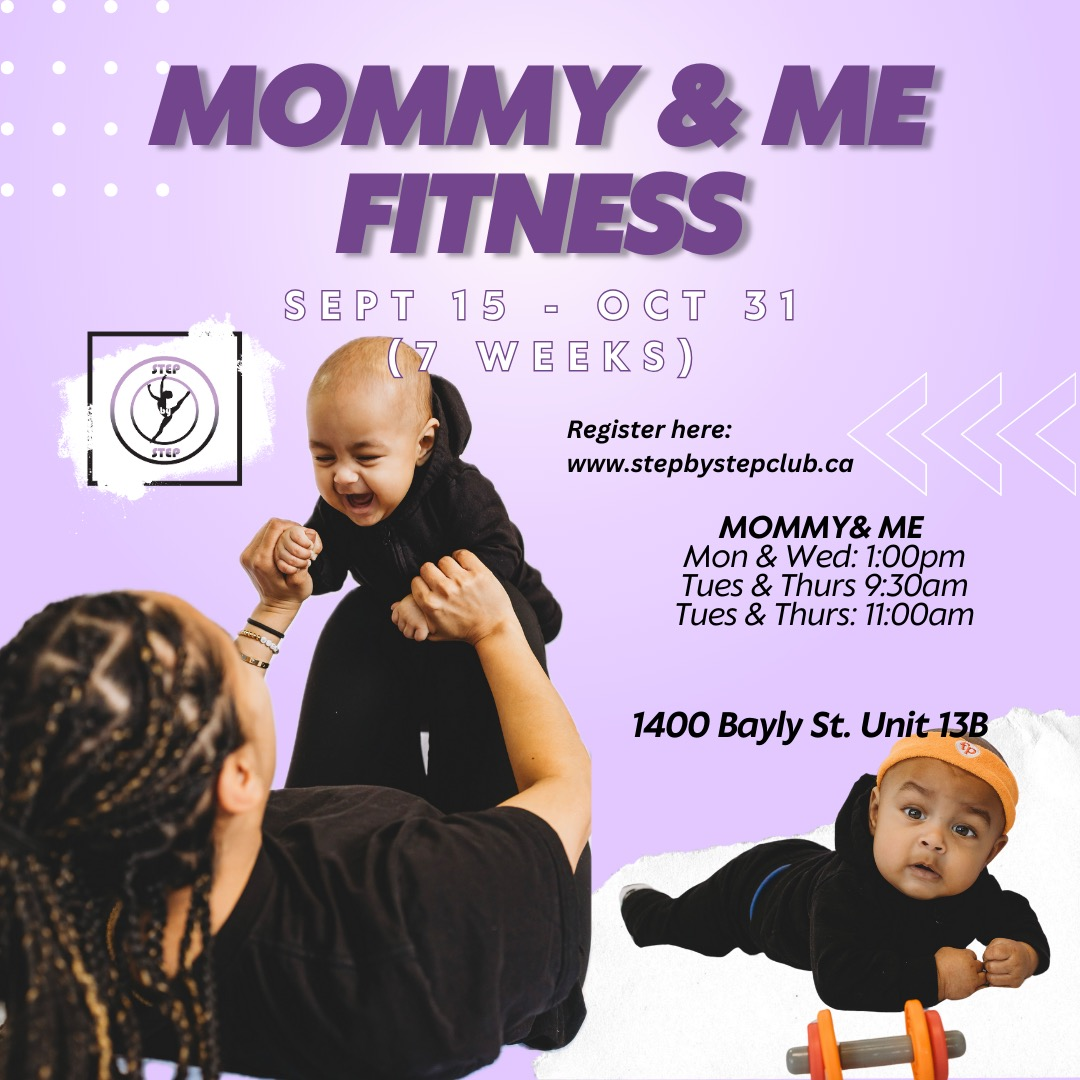
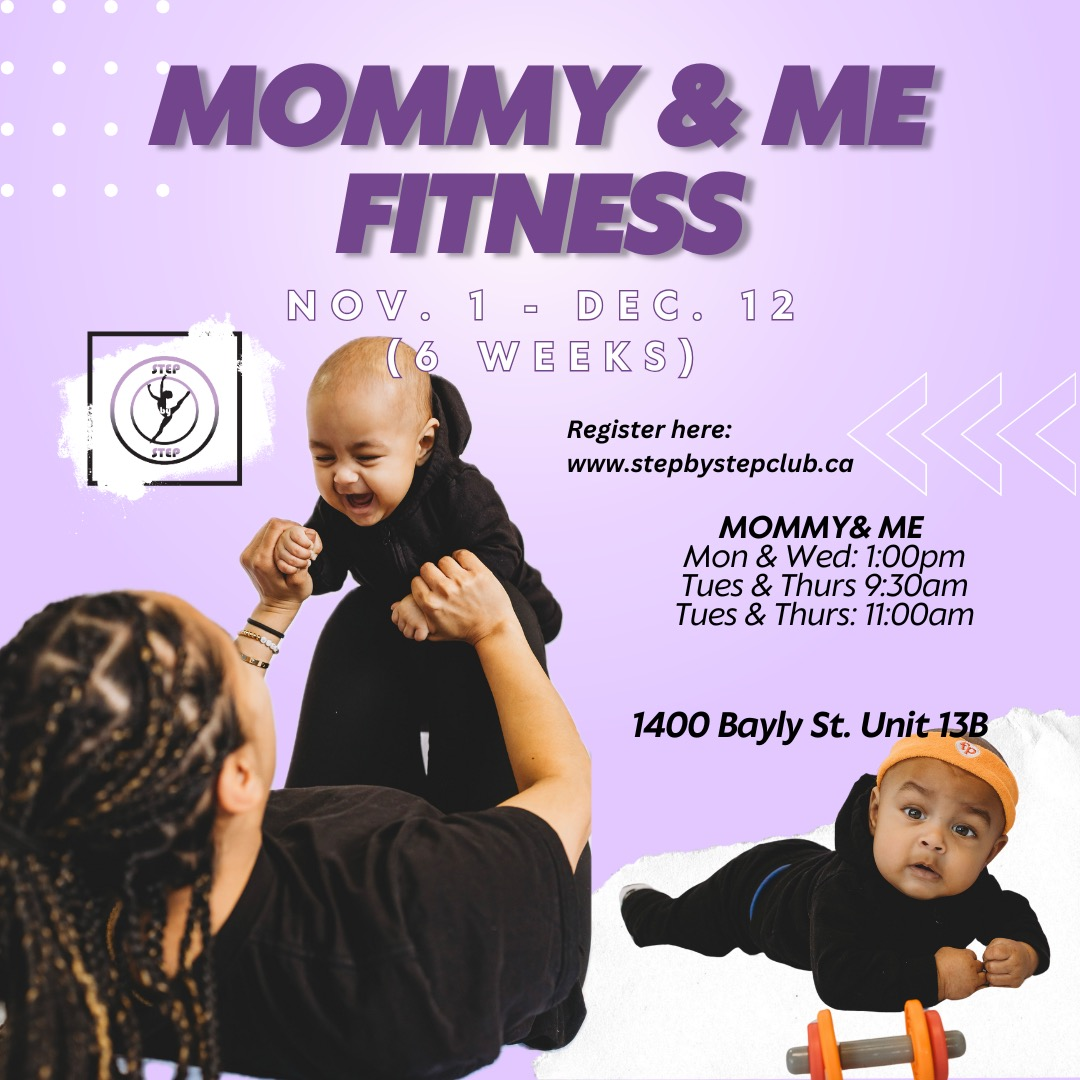
update special events image and link

Changed region(s): [[0.2444, 0.2444, 0.7333, 0.3667]]

diff --git a/client/src/components/SpecialEvents/SpecialEvents.js b/client/src/components/SpecialEvents/SpecialEvents.js
@@ -18,10 +18,10 @@ const SpecialEvents = () => {
       "_blank"
     );
   };
-  
+
   const linkToBuyTickets3 = () => {
     window.open(
-      "https://www.wellnessliving.com/schedule/step_by_step_club?id_class_tab=1&k_class=844005#dt_date=2025-09-11&f_distance=50&f_latitude=&f_longitude=&filter=1&&id_screen=3&is_appointment_cancel_recurring=&is_appointment_cancel_single=&is_class_cancel=0&&&is_remove=0&is_week=1&&id_screen=3&k_business=651877&&&k_class_tab=0&&is_location=1&k_promotion=0&k_skin=0&&&s_period=week&&sort=&a_day[]=7%2C1%2C2%2C3%2C4%2C5%2C6&a_class[]=844005&a_staff[]=656393%2C660586%2C660587%2C660588&a_time[]=1%2C2%2C3&a_virtual[]=2%2C1&a_location[]=426598",
+      "https://www.wellnessliving.com/schedule/step_by_step_club?id_class_tab=1&k_class=844005#dt_date=2025-10-11&f_distance=50&f_latitude=&f_longitude=&filter=1&&id_screen=3&is_appointment_cancel_recurring=&is_appointment_cancel_single=&is_class_cancel=0&&&is_remove=0&is_week=1&&id_screen=3&k_business=651877&&&k_class_tab=0&&is_location=1&k_promotion=0&k_skin=0&&&s_period=calendar-month&&sort=&a_day[]=7%2C1%2C2%2C3%2C4%2C5%2C6&a_class[]=844005&a_staff[]=656393%2C660586%2C660587%2C660588&a_time[]=1%2C2%2C3&a_virtual[]=2%2C1&a_location[]=426598",
       "_blank"
     );
   };
